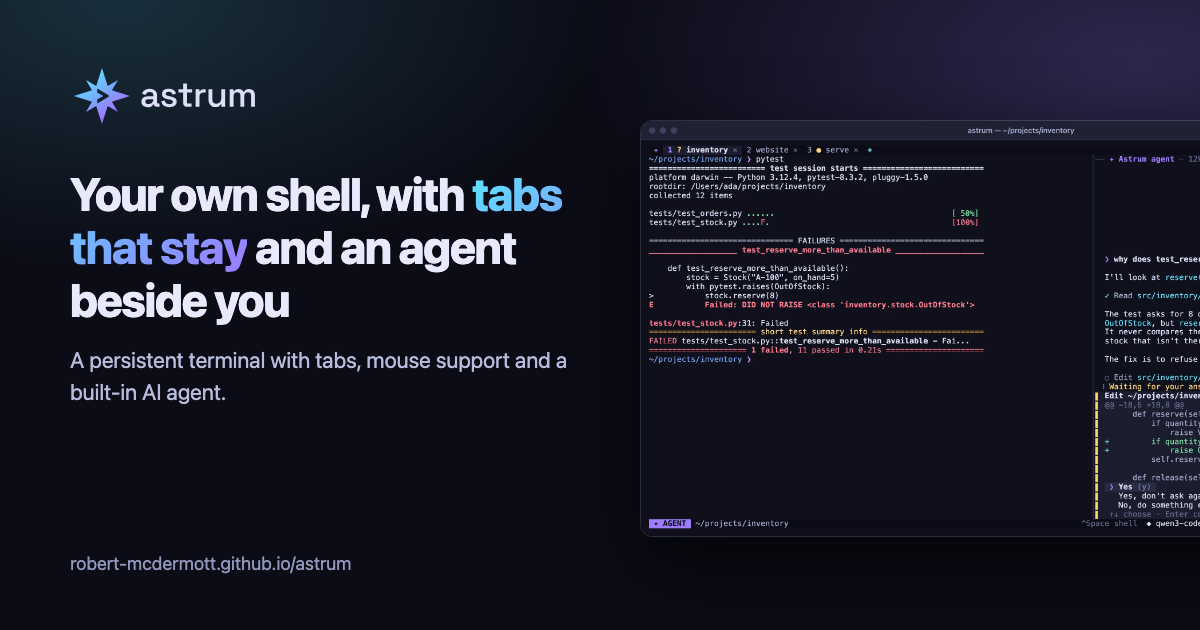
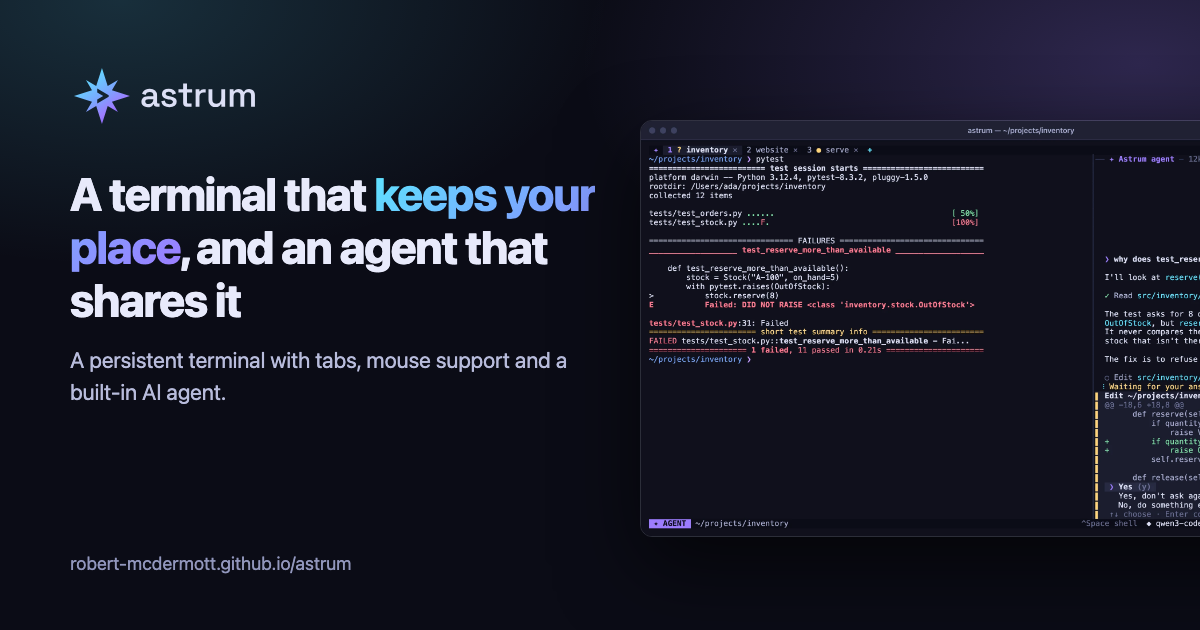
Site: a headline that says what Astrum is
"A terminal that keeps your place, and an agent that shares it" takes
the place of "Your own shell, with tabs that stay and an agent beside
you": it names the kind of thing Astrum is at once and makes two claims
in their strong form. The line above it says the category in plain
words, the version moves to the note under the install command, and the
section below is headed "What Astrum does" so that it does not repeat
the headline. The page title and the picture for shared links follow.

The headline's lines are balanced (two even lines on a desktop), and on
the light page its highlighted words use deeper shades of the logo's
colors, which were too pale to read there.

Changed region(s): [[0.0617, 0.2714, 0.4933, 0.5127]]

diff --git a/site/assets/site.css b/site/assets/site.css
@@ -28,6 +28,8 @@
   --header-bg: rgba(246, 247, 252, 0.84);
   --spectrum: linear-gradient(135deg, #5de4ff 0%, #7aa8ff 48%, #9d7cff 78%, #7858ef 100%);
   /* (Behind a button's dark text: the logo's colors, short of its darkest.) */
+  /* (For the highlighted words of the headline: deeper on a light page, the logo's own on a dark one.) */
+  --spectrum-text: linear-gradient(135deg, #0b7fa6 0%, #3d68d8 50%, #6a4bdf 100%);
   --spectrum-button: linear-gradient(135deg, #5de4ff 0%, #7aa8ff 55%, #9d7cff 100%);
   --radius: 14px;
   --radius-sm: 9px;
@@ -65,6 +67,7 @@
     --glow-1: rgba(93, 228, 255, 0.14);
     --glow-2: rgba(157, 124, 255, 0.2);
     --header-bg: rgba(11, 12, 22, 0.8);
+    --spectrum-text: var(--spectrum);
     color-scheme: dark;
   }
 }
@@ -95,6 +98,7 @@
   --glow-1: rgba(93, 228, 255, 0.14);
   --glow-2: rgba(157, 124, 255, 0.2);
   --header-bg: rgba(11, 12, 22, 0.8);
+  --spectrum-text: var(--spectrum);
   color-scheme: dark;
 }
 
@@ -226,15 +230,15 @@ p { margin: 0 0 1em; }
   background: radial-gradient(600px 300px at 20% 20%, var(--glow-1), transparent 70%), radial-gradient(700px 360px at 80% 10%, var(--glow-2), transparent 70%);
 }
 .hero-grid { display: grid; grid-template-columns: 1.05fr 1fr; gap: 48px; align-items: center; }
-.hero h1 { font-size: clamp(38px, 5.4vw, 64px); letter-spacing: -0.035em; margin-bottom: 18px; }
-.hero h1 .spectrum { background: var(--spectrum); -webkit-background-clip: text; background-clip: text; color: transparent; }
+.hero h1 { font-size: clamp(34px, 4.9vw, 58px); letter-spacing: -0.035em; margin-bottom: 18px; text-wrap: balance; }
+.hero h1 .spectrum { background: var(--spectrum-text); -webkit-background-clip: text; background-clip: text; color: transparent; }
 .hero .lede { font-size: 19px; color: var(--text-dim); max-width: 34em; }
 .hero .actions { display: flex; flex-wrap: wrap; gap: 12px; margin: 22px 0 18px; }
 .hero .hero-note { font-size: 13.5px; color: var(--text-faint); margin-top: 14px; }
 .hero-mark { width: 92px; height: 92px; margin-bottom: 22px; }
 .eyebrow { display: inline-block; font-size: 13px; font-weight: 700; letter-spacing: 0.08em; text-transform: uppercase; color: var(--accent2); margin-bottom: 10px; }
 
-.hero-center { text-align: center; max-width: 900px; }
+.hero-center { text-align: center; max-width: 1040px; }
 .hero-center .lede { margin: 0 auto; }
 .hero-center .actions { justify-content: center; }
 .hero-center .install-box { margin: 0 auto; text-align: left; }

diff --git a/site/pages/index.html b/site/pages/index.html
@@ -6,15 +6,15 @@ description: A persistent terminal with tabs, mouse support and a built-in AI ag
 <section class="hero">
 <div class="container hero-center">
 <img class="hero-mark" src="{{root}}assets/logo/astrum-logo.svg" alt="" width="92" height="92">
-<span class="eyebrow">Version {{version}} · open source</span>
-<h1>Your own shell, with <span class="spectrum">tabs that stay</span> and an agent beside you</h1>
+<span class="eyebrow">A persistent terminal with a built-in AI agent</span>
+<h1>A terminal that <span class="spectrum">keeps your place</span>, and an agent that shares it</h1>
 <p class="lede">Astrum runs inside the terminal you already use, locally or over SSH. Close the window and everything keeps running; come back and it is all there. Click anything, split panes, and ask an agent that works in the same shell you do, where you can watch it and take over.</p>
 <div class="actions">
 <a class="btn primary" href="{{root}}docs/getting-started.html">Get started</a>
 <a class="btn" href="{{root}}docs/index.html">Read the documentation</a>
 </div>
 {{install}}
-<p class="hero-note">One file, nothing else to install. macOS on Apple silicon, Linux on x86-64 and ARM64.</p>
+<p class="hero-note">Version {{version}}, open source. One file, nothing else to install. macOS on Apple silicon, Linux on x86-64 and ARM64.</p>
 </div>
 <div class="container hero-shot">
 {{shot hero | Astrum in a terminal window: a tab bar with three tabs, a shell showing a failed test run, and the agent panel beside it explaining the failure and asking to make the fix | Your shell on the left, the agent on the right, both in the same session}}
@@ -24,7 +24,7 @@ description: A persistent terminal with tabs, mouse support and a built-in AI ag
 <section class="band soft">
 <div class="container">
 <div class="center">
-<h2>A terminal that keeps your place</h2>
+<h2>What Astrum does</h2>
 <p class="intro">Astrum is a session manager for the terminal: tabs, panes and shells that keep running in the background, with an AI agent built in. It changes nothing about your shell, your prompt or your colors.</p>
 </div>
 <div class="cards">

diff --git a/site/capture/og.html b/site/capture/og.html
@@ -18,7 +18,7 @@
 </style>
 <div id="card">
   <img class="wordmark" src="{{logo}}/astrum-wordmark-on-dark.svg" alt="Astrum">
-  <h1>Your own shell, with <span>tabs that stay</span> and an agent beside you</h1>
+  <h1>A terminal that <span>keeps your place</span>, and an agent that shares it</h1>
   <p>A persistent terminal with tabs, mouse support and a built-in AI agent.</p>
   <div class="shot"><img src="{{images}}/hero-dark.webp" alt=""></div>
   <div class="url">robert-mcdermott.github.io/astrum</div>
